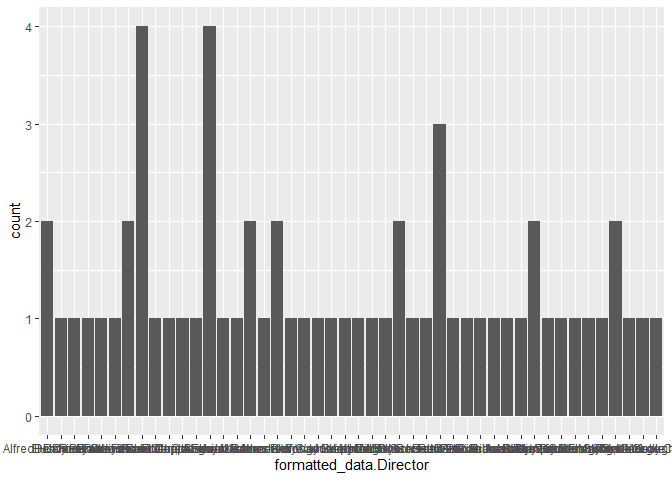
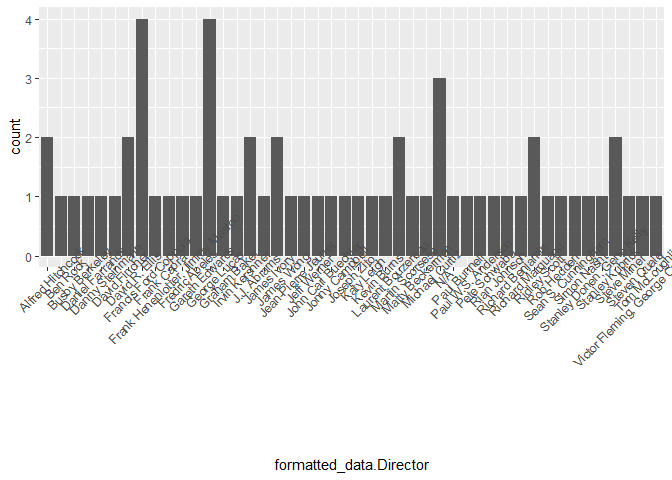
8:28_6_24_2022

diff --git a/README.md b/README.md
@@ -738,7 +738,8 @@ Here’s the bar graph:
 C<-data.frame(formatted_data$Title,formatted_data$Director)
 D<-unique(C)
 g<-ggplot(data = D, aes(x = formatted_data.Director ))
-g + geom_bar()
+g + geom_bar() +
+  theme(axis.text.x = element_text(angle = 45))
 ```
 
 ![](README_files/figure-gfm/8_18_6_24_2022-1.png)<!-- -->
